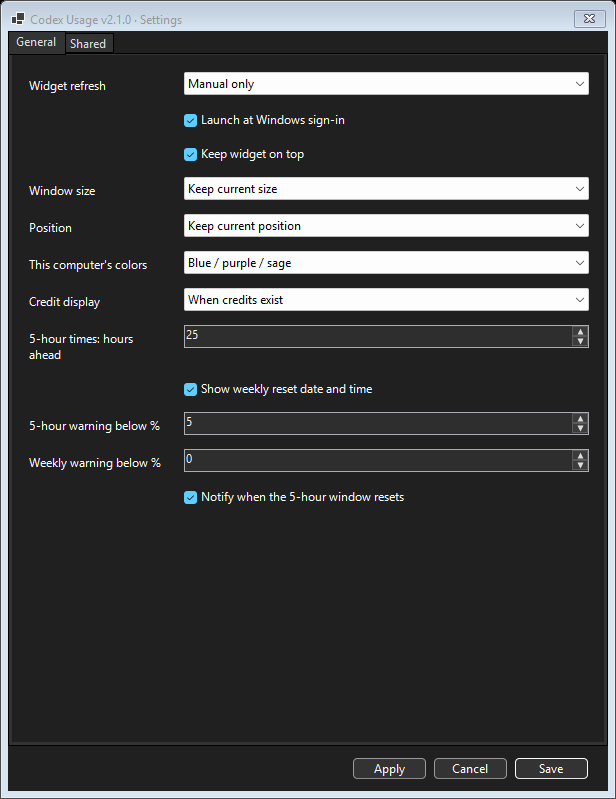
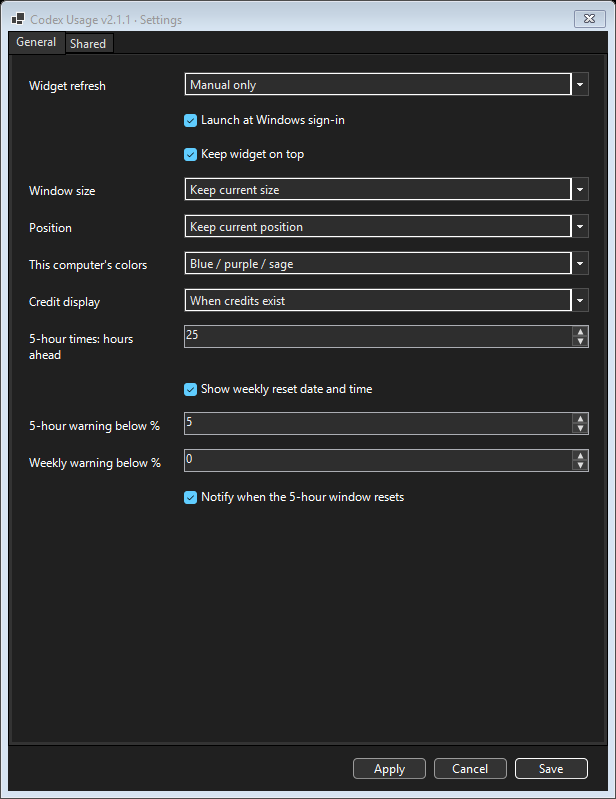
Publish usage changes with 30-minute check-ins and refine hover resizing in v2.1.1

Changed region(s): [[0.2776, 0.2103, 0.9562, 0.3905], [0.2776, 0.0901, 0.9562, 0.1202], [0.1851, 0.0, 0.2159, 0.03]]

diff --git a/extradetails.md b/extradetails.md
@@ -2,7 +2,7 @@
 
 [Quick start and screenshots](README.md) · [Changelog](changelog.md)
 
-This guide covers Codex Usage Widget 2.1.0.
+This guide covers Codex Usage Widget 2.1.1.
 
 ## Requirements
 
@@ -85,6 +85,8 @@ When the full header no longer fits, a small refresh button remains at the top r
 
 Open **Settings...** from the tray menu. **General** configures this computer's account plus window, refresh, and startup settings. **Shared** mirrors its color, credits, reset-display and notification controls for the imported account, and adds layouts and file connections. Shared controls are scrollable to reach connections below the account preferences.
 
+Dropdowns use consistent colors matching the panel's dark or light theme. Resize handles appear at both bottom corners on hover, including each separate account window.
+
 Explanations appear as hover tooltips on the related controls and labels; live lock state, file-operation status and source age remain visible.
 
 Settings remains open without blocking either desktop window. Account picker labels follow this computer's saved display name and the imported JSON nickname. The inline selector uses the widget's dark theme. Account headings shrink and shorten before disappearing; full names remain on hover.
@@ -117,11 +119,11 @@ Sharing is opt-in and configured separately on each computer under **Settings...
 | Output | `account-a.json` | `account-b.json` |
 | Input | `account-b.json` | `account-a.json` |
 
-Writing uses an atomic file replacement. Existing output files must belong to this widget's saved random source identifier; unrelated files and another computer's exports are not overwritten. Keep the local preferences file when updating the widget so its identifier and connections remain intact. After deleting local preferences, choose a new output filename rather than trying to claim an old export.
+Writing uses an atomic file replacement. Unchanged readings do not rewrite the export, even after a fresh usage check or manual refresh. Usage values, credits, resets, and account metadata changes are published at the selected write cadence. Automatic sharing checks in after 30 minutes without changes; explicit Manual only remains manual. The JSON records last usage change separately from the reading's actual check time. Unchanged shared files are checked by file metadata without reparsing. Existing output files must belong to this widget's saved random source identifier; unrelated files and another computer's exports are not overwritten. Keep the local preferences file when updating the widget so its identifier and connections remain intact. After deleting local preferences, choose a new output filename rather than trying to claim an old export.
 
-**Write frequency** and **Read frequency** each offer Match widget refresh, 1/5/15/30 minutes, or Manual only. Matched reads run when a local refresh starts; matched writes follow a successful local refresh. Separate write timers publish the latest existing reading, without making extra Codex requests or changing its original update time. Manual Refresh reads immediately and publishes when the local request succeeds. Saving an enabled connection performs an initial read/write if data is available. Independent file timers continue while minimized to the tray; disabled, manual, and matched connections add no idle file polling.
+**Write frequency** and **Read frequency** each offer Match widget refresh, 1/5/15/30 minutes, or Manual only. Matched reads run when a local refresh starts; matched writes follow a successful local refresh. Separate write timers publish the latest existing reading, without making extra Codex requests or changing its original update time. Manual Refresh reads immediately and publishes when the local request succeeds. Saving an enabled connection performs an initial read/write if data is available. Independent file timers continue while minimized to the tray; disabled and manual connections add no idle file polling. Automatic matched writers keep a lightweight timer for the 30-minute check-in.
 
-Sharing shows separate last-write/read statuses and the imported usage's age. A recent file read does not imply recent usage: if the shared computer/widget stops, its numbers remain visible and become **stale** after twice its reported refresh interval, with a two-minute minimum. Manual sources use that minimum. OneDrive delivery adds its own delay. Missing, malformed, or older files retain the last valid reading with an error indicator. An input path change clears the previous source. Imported readings are not cached across widget restarts; they reload from the selected file.
+Sharing shows separate last-write/read statuses and the imported usage's age. A recent file read does not imply recent usage: if the shared computer/widget stops, its numbers remain visible and become **stale** after the 30-minute check-in interval plus twice its reported refresh interval, with a two-minute minimum. Older exports without check-in metadata retain the previous twice-refresh-interval rule. Manual sources do not acquire fresh timestamps merely by rewriting an old reading. Shared alerts still require a reading within twice the source refresh interval, with a two-minute minimum. OneDrive delivery adds its own delay. Missing, malformed, or older files retain the last valid reading with an error indicator. An input path change clears the previous source. Imported readings are not cached across widget restarts; they reload from the selected file.
 
 The two sources are displayed independently, never summed. Tray bars and tray hover text always refer to the account signed in on this computer. General notification preferences apply locally; Shared notification preferences apply to imported readings and label their popups with the other account name. Shared thresholds default to 0 and its reset alert defaults to off. Warnings are sent once per crossing, with separate persisted history for each account. Shared reset alerts require weekly quota above 0%, just like local resets. Stale or failed file reads never trigger shared alerts. Independent credit and reset-display settings affect only their respective account cards. Side by side retains both numeric columns and a divider at Mini size; headings and update status stay available on hover when they no longer fit. The shared computer defaults to teal/lilac/sand so the two accounts are easy to distinguish.
 

diff --git a/README.md b/README.md
@@ -2,7 +2,7 @@
 
 A small Windows desktop and tray widget for Codex **5-hour and weekly usage left**, reset times, credits, and notifications. Optionally show a second computer's account through private shared JSON files.
 
-**Version 2.1.0** · [Changelog](changelog.md) · [Detailed guide and troubleshooting](extradetails.md)
+**Version 2.1.1** · [Changelog](changelog.md) · [Detailed guide and troubleshooting](extradetails.md)
 
 ## Quick start
 
@@ -20,7 +20,7 @@ Percentages show **quota remaining**: 100% is full and 0% is exhausted. Credits 
 | --- | --- | --- | --- |
 | <img src="docs/screenshots/widget-mini.png" alt="Mini widget" width="72"> | <img src="docs/screenshots/widget-small.png" alt="Small widget" width="140"> | <img src="docs/screenshots/widget-medium.png" alt="Medium widget" width="190"> | <img src="docs/screenshots/widget-large.png" alt="Large widget" width="280"> |
 
-Drag to move or resize. Use **↻** to refresh, **◉ / ○** for always on top, **—** to minimize to the tray, and **×** to exit (hide just that account in Separate windows). Hidden buttons appear on hover. Double-click the tray icon to restore the window; hover for local quota and available credits.
+Drag to move; hover to resize from either bottom corner. Use **↻** to refresh, **◉ / ○** for always on top, **—** to minimize to the tray, and **×** to exit (hide just that account in Separate windows). Hidden buttons appear on hover. Double-click the tray icon to restore the window; hover for local quota and available credits.
 
 ## Settings
 
@@ -30,7 +30,7 @@ Right-click the tray icon → **Settings...**. Two tabs, **General** and **Share
 | --- | --- |
 | <img src="docs/screenshots/settings-general.png" alt="General settings tab" width="340"> | <img src="docs/screenshots/settings-shared.png" alt="Shared settings tab" width="340"> |
 
-For two accounts, choose a private synced folder outside this project. Each computer writes its own file and reads the other's. Shared starts off; enable it to unlock the connection and second-account settings. Choose **Side by side**, **Stacked**, **Account picker**, or **Separate windows**; Side by side keeps two numeric columns at Mini size. Separate windows remember independent sizes and positions; use the tray menu to reopen either account. File refreshes can match the widget or use separate timers. [Setup instructions](extradetails.md#two-computers-and-file-sharing).
+For two accounts, choose a private synced folder outside this project. Each computer writes its own file and reads the other's. Shared starts off; enable it to unlock the connection and second-account settings. Choose **Side by side**, **Stacked**, **Account picker**, or **Separate windows**; Side by side keeps two numeric columns at Mini size. Separate windows remember independent sizes and positions; use the tray menu to reopen either account. File checks can match the widget or use separate timers. Exports change only when usage or account details change, with an automatic check-in at least every 30 minutes. [Setup instructions](extradetails.md#two-computers-and-file-sharing).
 
 Screenshots show captured usage and settings, not live values. Settings stay local to each computer.
 

diff --git a/changelog.md b/changelog.md
@@ -2,6 +2,13 @@
 
 [Back to README](README.md)
 
+## 2.1.1 — October 1, 2026
+
+- Skip unchanged JSON exports, including new fetch timestamps and restart; publish meaningful changes and automatic 30-minute check-ins. Preserve manual-only behavior, output ownership, and original reading age.
+- Separate last usage change from last checked; cache unchanged imported files and allow the longer check-in cadence for stale display while keeping notification freshness strict.
+- Show resize handles at both bottom corners only on hover for local and separate shared windows.
+- Match every Settings dropdown to the panel's system dark/light colors.
+
 ## 2.1.0 — October 1, 2026
 
 - Keep Settings open while interacting with either widget; preserve Apply, Save, and Cancel behavior.
